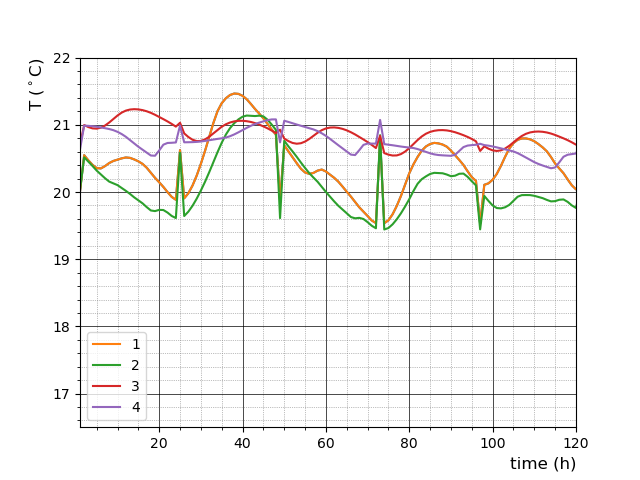
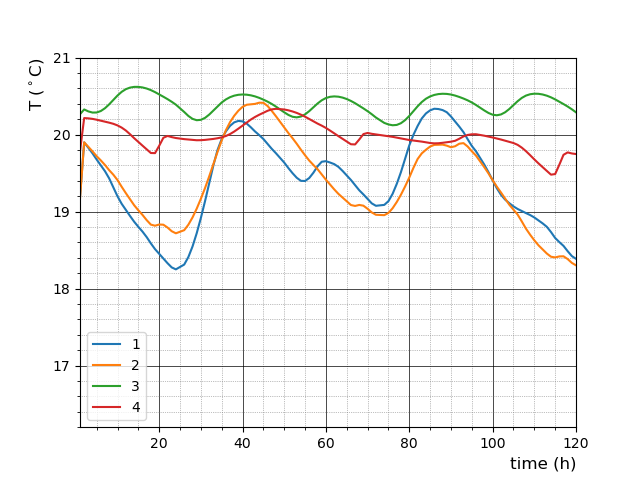
Small changes to figure captions and comments@

diff --git a/manuscript/deadstate_latex/ValeIEEES2020.tex b/manuscript/deadstate_latex/ValeIEEES2020.tex
@@ -3,8 +3,6 @@
 % CHECKLIST/TODO:
 % - From reviewer: Please revise the abstract by some numerical findings as well.
 % - Figure 1, add wall layers info and improve graphics
-% - real case graphs data/spikes
-% - heating strategy and setpoint (add power to the graph)
 %
 %%%%%%%%%%%%%%%%%%%%%%%%%%%%%%%%%%%%%%
 
@@ -218,13 +216,15 @@ $T_{eq}(t)={\sum_i m_i c_i T_i(t)} / {\sum_i m_i c_i}$  \quad  (where $i$ = subs
 \begin{figure}[h]
  
 \begin{subfigure}{0.5\textwidth}
-\includegraphics[width=0.99\linewidth, height=7cm]{images/1.png} 
-\caption{Radiant wall heating}
+\includegraphics[width=0.99\linewidth, height=7cm]{images/1.png}
+\vskip-0.1cm 
+\caption{Radiant wall heating, set-point 21$^\circ C$ at night-time (9pm-6am)}
 \label{fig:esprmodel}
 \end{subfigure}
 \begin{subfigure}{0.5\textwidth}
 \includegraphics[width=0.99\linewidth, height=7cm]{images/2.png}
-\caption{Basic ideal heating (air node heat injection)}
+\vskip-0.1cm 
+\caption{Basic air ideal heating, set-point 22$^\circ C$ (6am-8am + 6pm-10pm)}
 \label{fig:constructionelements}
 \end{subfigure}
  \vskip-0.2cm
@@ -236,26 +236,6 @@ $T_{eq}(t)={\sum_i m_i c_i T_i(t)} / {\sum_i m_i c_i}$  \quad  (where $i$ = subs
 
 \cite{Rosen2004} introduced the sensitivity $\sigma$, a measure of how exergy is impacted by variations in the reference state. In the case of thermal exergy, if heat $Q$ is exchanged at $T$ with a reference $T_0$ that varies by $\Delta T_0$: 
 
-
-%\begin{minipage}{0.55\textwidth}
-%\includegraphics[height=7cm,right]{images/sensitivity.png}
-%\end{minipage}%%% to prevent a space
-%\begin{minipage}{0.4\textwidth}
-%\scriptsize
-%\begin{equation}
-%\begin{split}
-%\sigma &= {Ex(T0+\Delta T0)-Ex(T0) \over Ex(T0)} = \\
-%&= { { Q \left( 1-{T0+ \Delta T0 \over T} \right) } - { Q \left( 1-{T0 \over T} \right) } \over { Q \left( 1-{T0 \over T} \right) } } = \\
-%&= { \Delta T0 \over T0 - T }\\
-%\end{split}
-%\end{equation}
-%\null
-%\par\xdef\tpd{\the\prevdepth}
-%\end{minipage}
-
-%%%%%%%%%%%%%%%
-
-%Alternative: equation on top of figure:
 
 \vskip-0.1cm
 \begin{equation}
